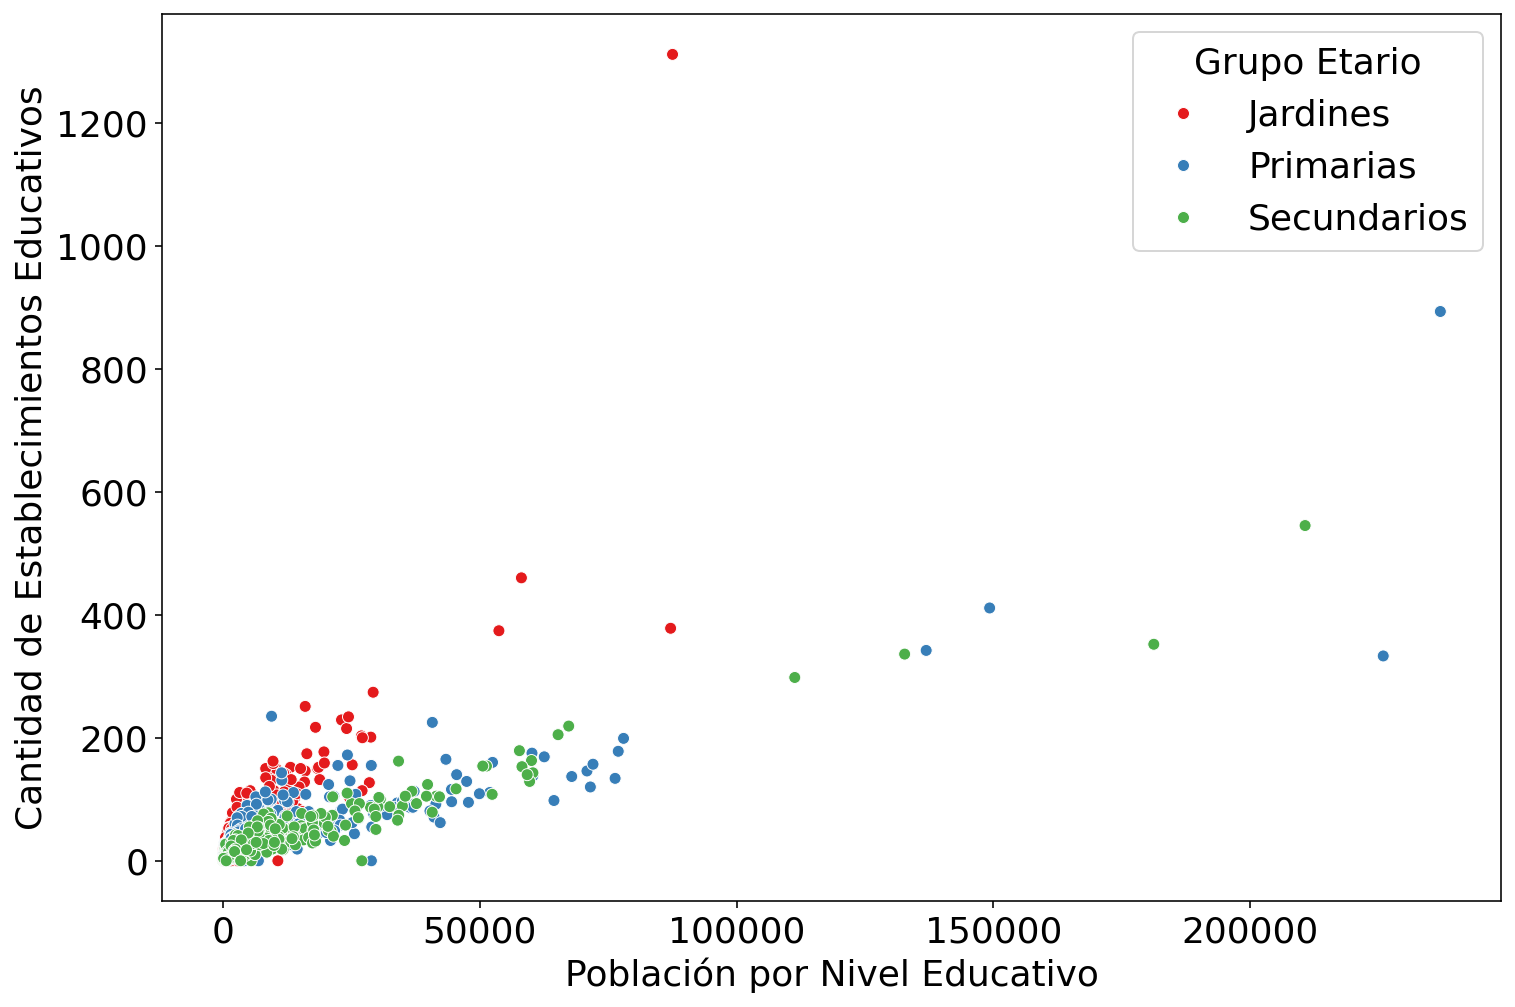
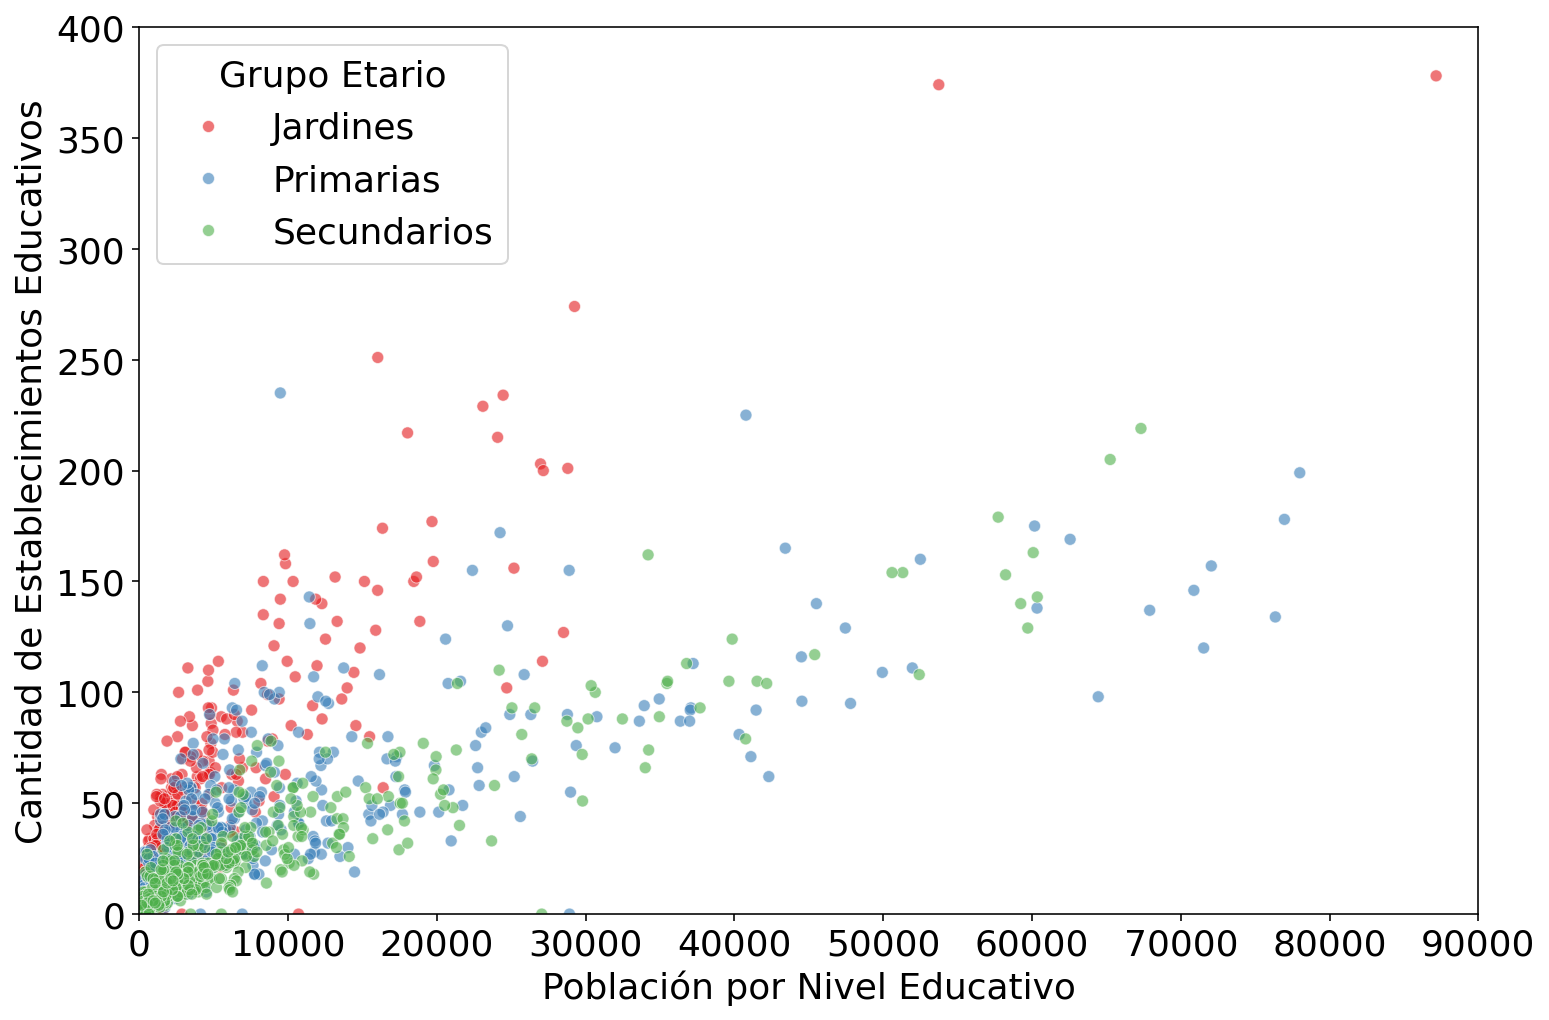
cambios a algunas imágenes

diff --git a/correccion_cod.py b/correccion_cod.py
@@ -761,11 +761,14 @@ sns.scatterplot(
     x='Poblacion',
     y='Cantidad_EE',
     hue='Grupo_Etario',
+    alpha=0.6,
     palette='Set1'
 )
 
 plt.xlabel('Población por Nivel Educativo')
 plt.ylabel('Cantidad de Establecimientos Educativos')
+plt.xlim(0, 90000)
+plt.ylim(0, 400)
 plt.legend(title='Grupo Etario')
 plt.show()
 
